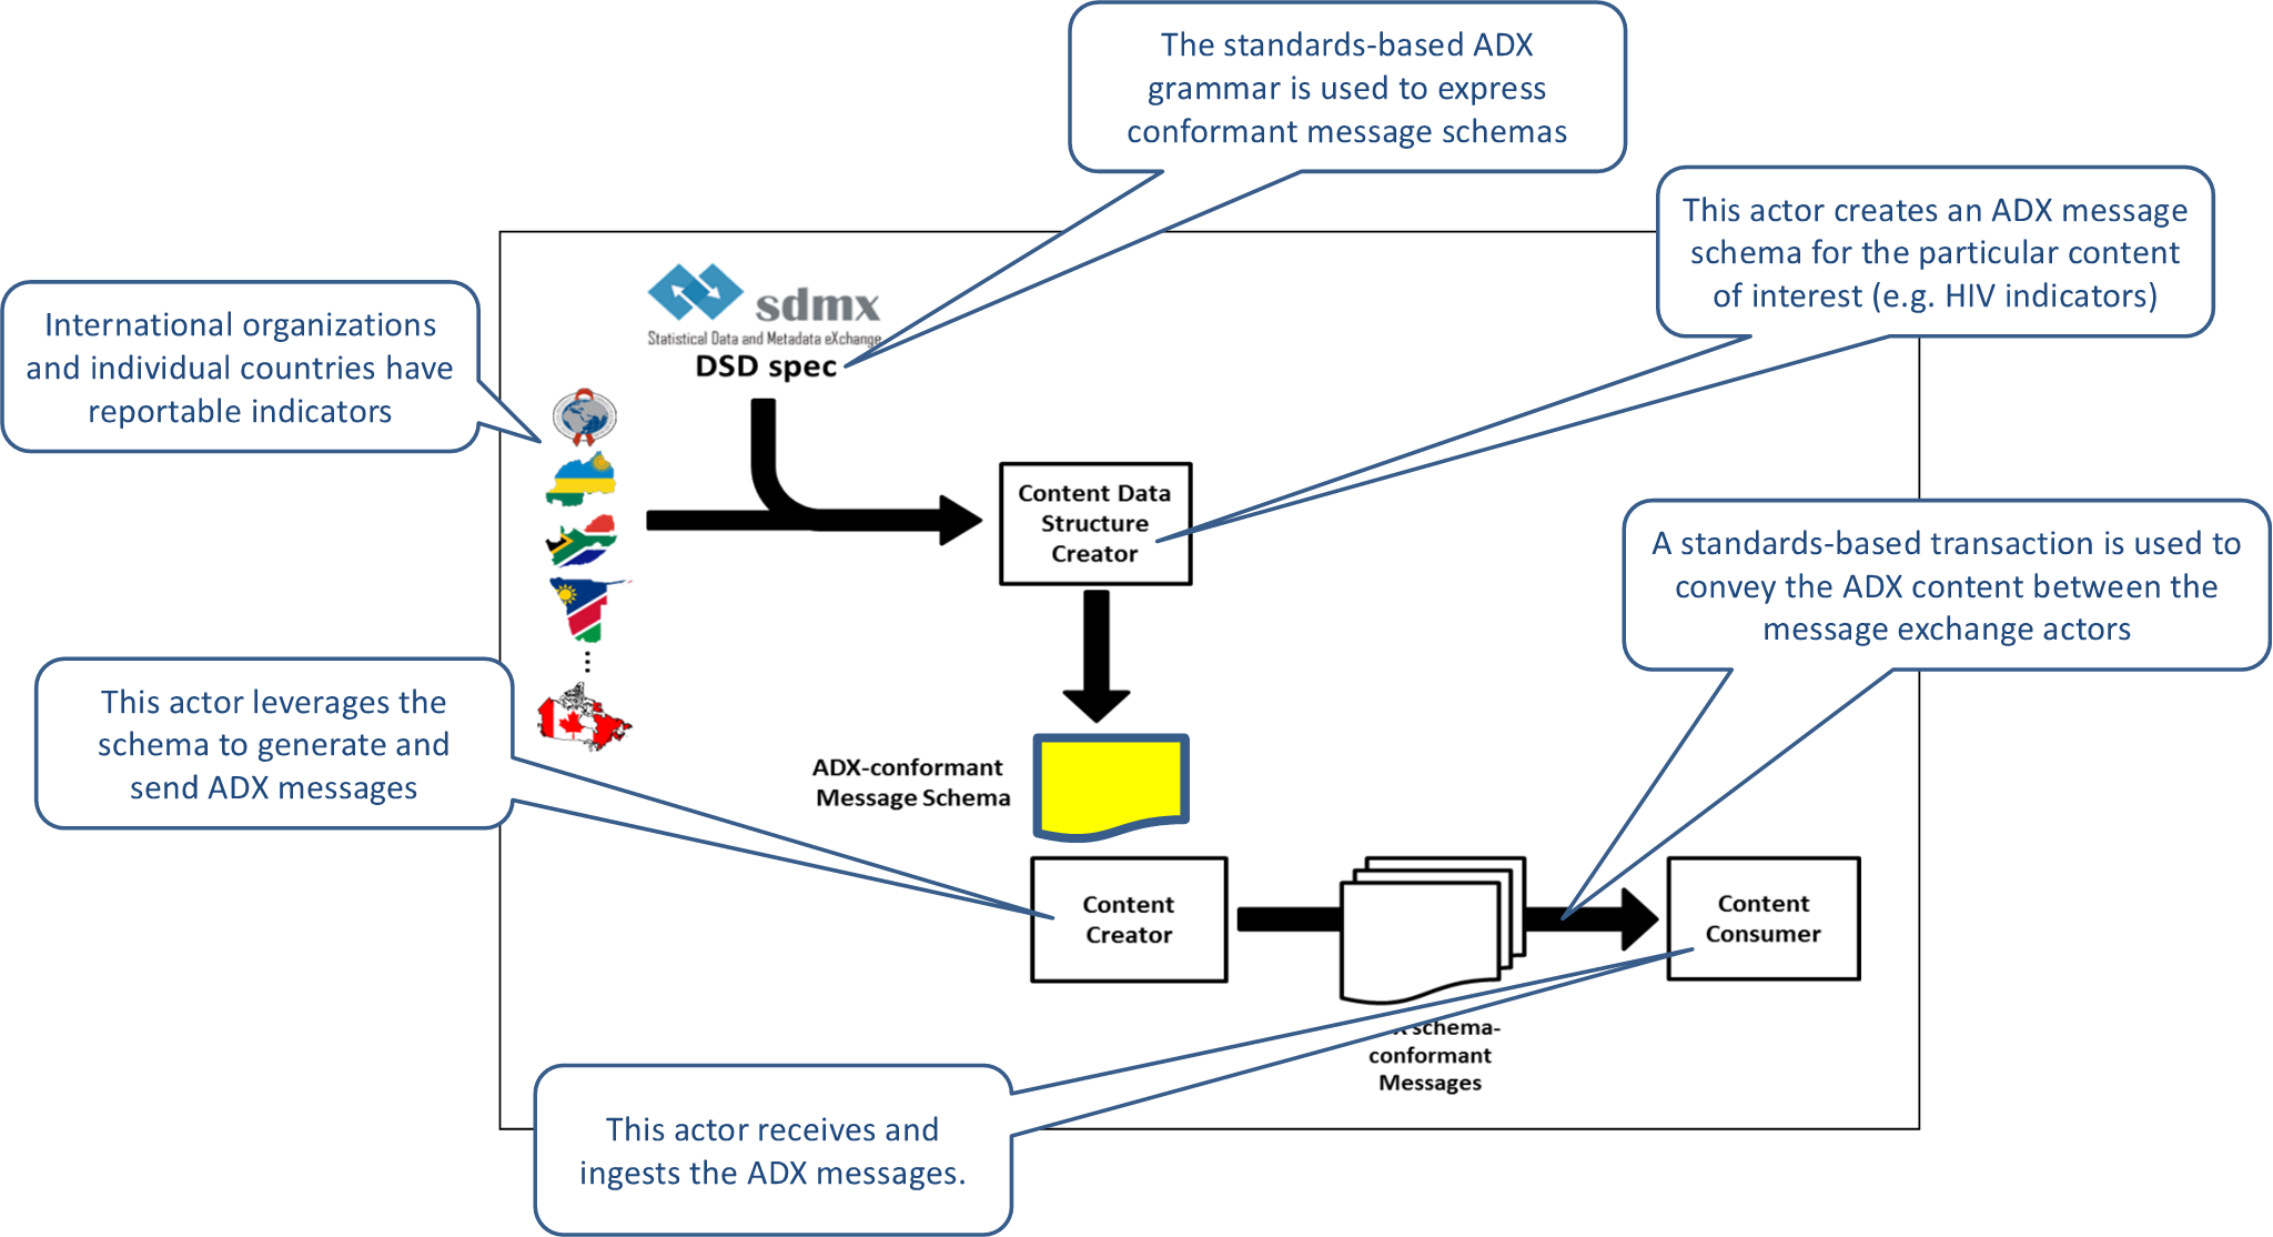
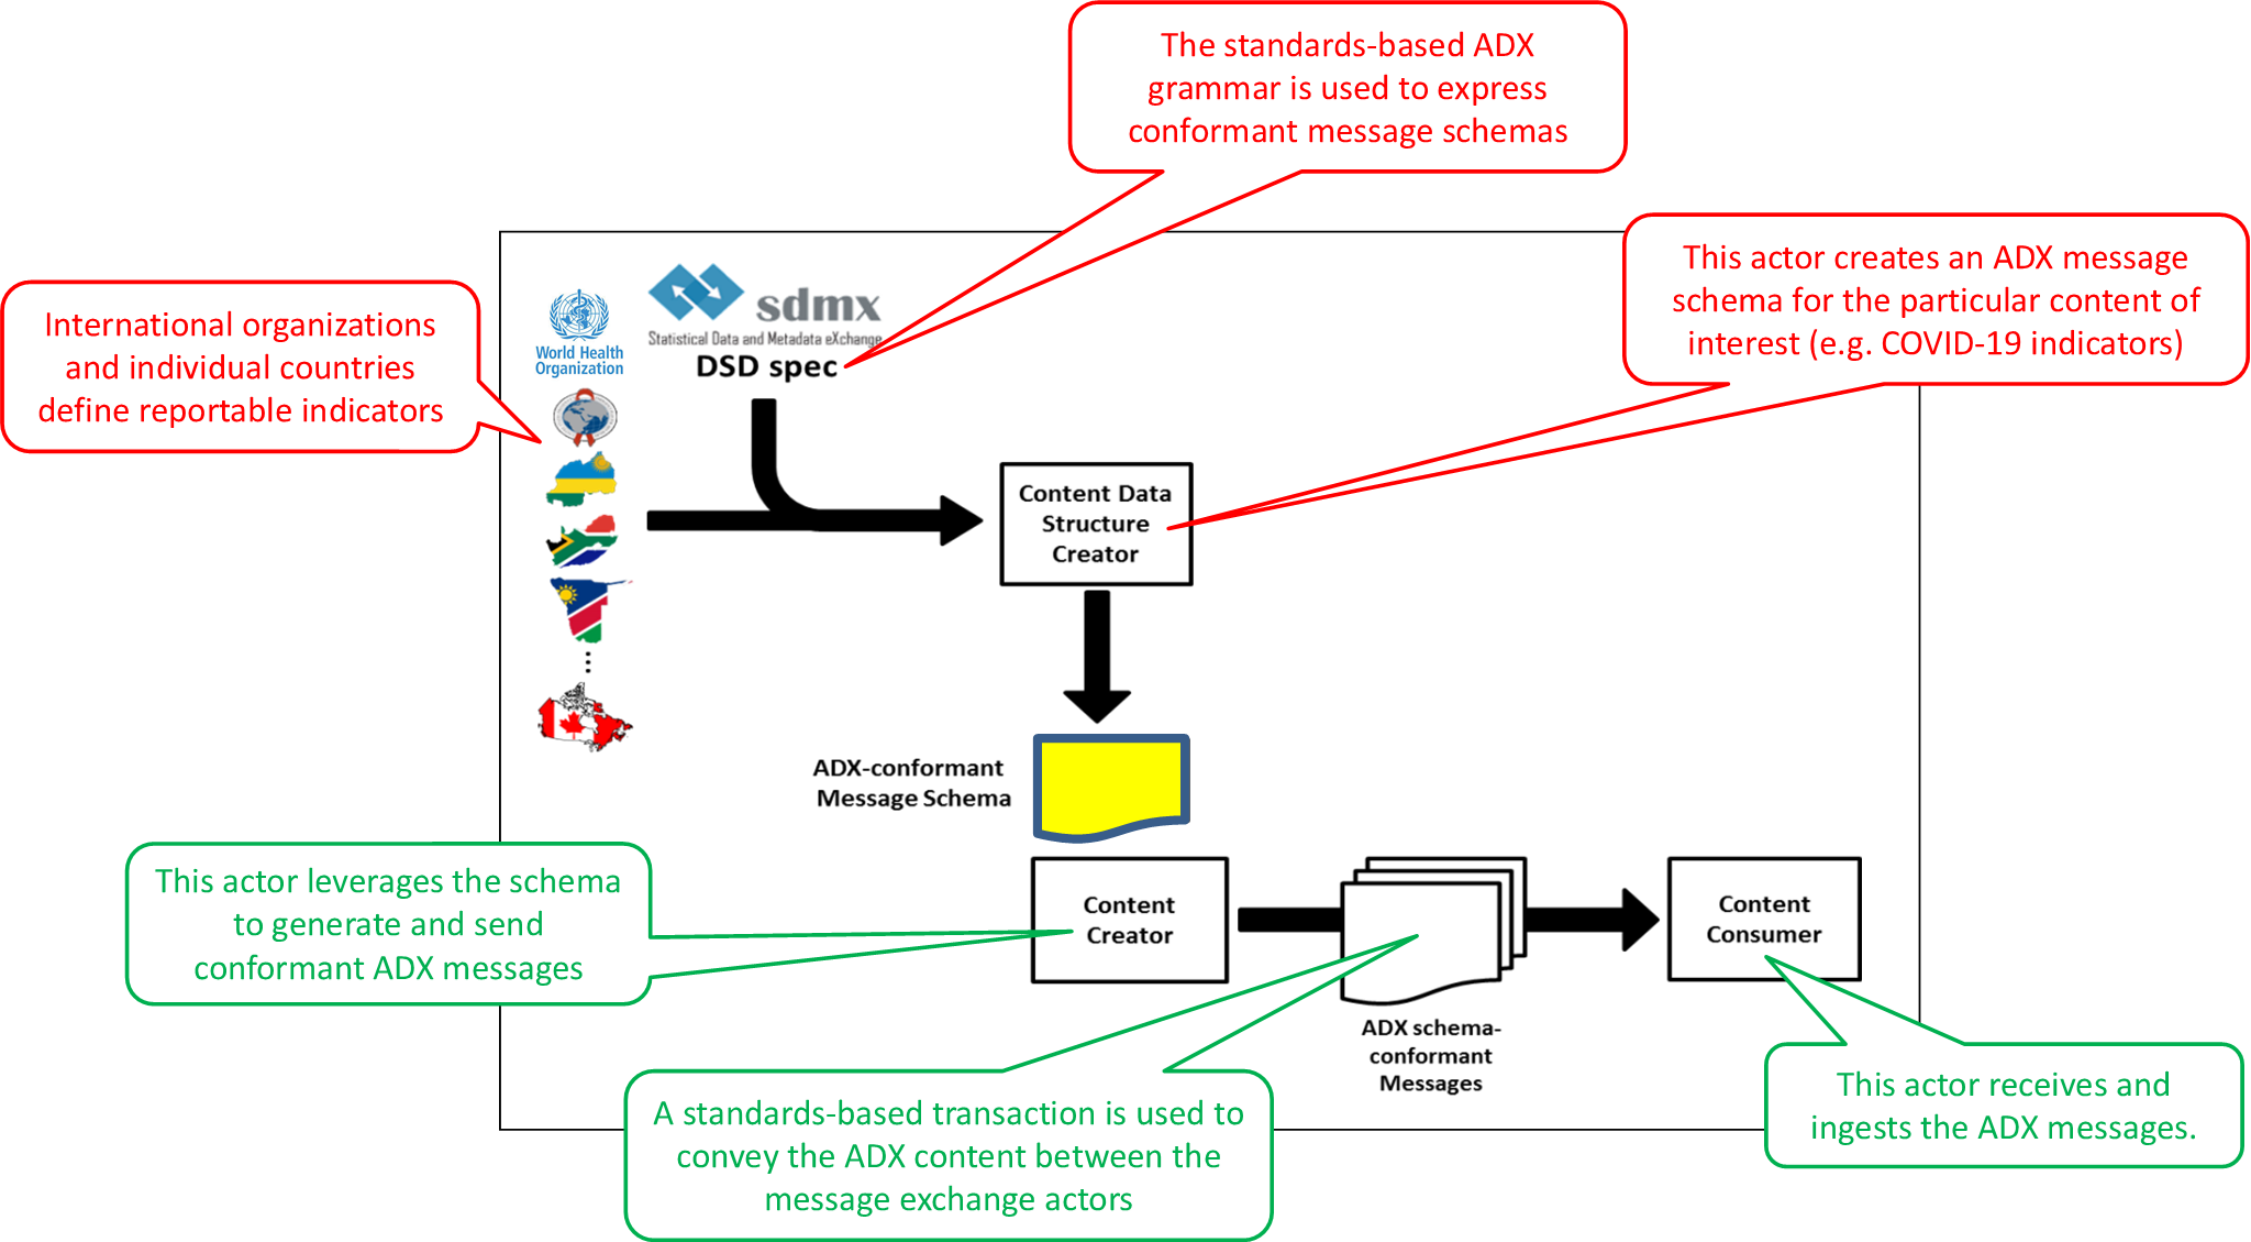
Incorporating Derek's new edits

diff --git a/ADX_COVID.md b/ADX_COVID.md
@@ -3,22 +3,31 @@
 % 2020-06-07
 
 # Overview
-The ADX for COVID profile is a content profile based on the Aggregate Data Exchange (ADX) specification. It defines a message schema for disaggregated data element reports that may be generated by point of service digital health solutions that operationalize the WHO COVID-19 case reporting form. The case reporting form tracks longitudinal person-centric data about COVID-19 cases and represents the underlying content data model for this ADX schema.
+The ADX for COVID profile is a *content* profile based on the Aggregate Data Exchange (ADX) specification. It defines a message schema for disaggregated data element reports that may be generated by point of service digital health solutions that collect weekly aggregate reports or summarize content collected electronically as per the WHO COVID-19 person-centric case reporting form. 
 
 # Concepts
 
-![concepts](images/concepts.png){width=80%}
+![](images/concepts.png){width=80%}
+
 *Figure 1: ADX actors and their roles*
 
-The actors defined in the ADX specification, and their respective roles, are described in Figure 1. The ADX for COVID content specification represents an ADX-conformant Message Schema (highlighted in yellow in the figure). It is a computable representation of the weekly reportable indicators defined by the WHO for COVID case reporting[^1]. This data reporting specification relies on the underlying case report specification, which has also been defined by WHO. For this content profile, WHO is the organization defining the reportable indicators and the QRPH committee is leveraging tooling (acting as a Content Data Structure Creator) to generate the ADX schema[^2]. 
+The actors defined in the ADX specification, and their respective roles, are described in Figure 1. The “design-time” schema development processes are illustrated by the red comments and the “run-time” schema-conformant message exchange workflows are illustrated by the green comments.
+
+Following the “red” workflow in Figure 1, the ADX for COVID content specification (this profile) represents an ADX-conformant Message Schema (highlighted in yellow in the figure). It is a computable representation of the weekly reportable indicators defined by the WHO for COVID surveillance reporting guidelines [^1]. This data reporting specification relies on the underlying case report specification, which has also been defined by WHO. For this content profile, WHO is the organization defining the reportable indicators and the QRPH committee is leveraging tooling (acting as a Content Data Structure Creator) to generate the ADX schema [^2]. 
+
+Following the “green” workflow in Figure 1, a point of service digital health application (playing the role of a Content Creator actor) would leverage this ADX schema to generate conformant COVID-19 aggregate data report messages. These are then submitted to a health information management system (HMIS), which plays the role of a Content Consumer actor.
 
 [^1]: https://www.who.int/emergencies/diseases/novel-coronavirus-2019/technical-guidance/surveillance-and-case-definitions]
 [^2]: In support of this work item, IHE has reached out to SNOMED International for assistance in mapping concepts defined in the WHO case report form. This content specification leverages the SNOMED codes recommended by them.]
 
-A point of service digital health application (playing the role of a Content Creator actor) would leverage this schema to generate conformant COVID-19 aggregate data report messages that are then submitted to a health information management system (HMIS), which plays the role of a Content Consumer actor.
-
 # Use Cases
-A country’s Ministry of Health (MOH) has implemented an electronic case reporting (eCR) form based on the normative WHO COVID-19 case reporting form. On a periodic basis (i.e. weekly), aggregate data reporting messages are generated by the eCR application and submitted to the MOH’s health management information system (HMIS). The MOH is able to leverage the HMIS to inform its actions to fight the COVID-19 pandemic. 
+Three key use cases are supported by this ADX content profile.
+
+1. A country’s Ministry of Health (MOH) has implemented an electronic aggregate data reporting form based on WHO’s normative specification. On a weekly basis, content is captured in the data report form and conformant ADX messages are submitted to the MOH’s health management information system (HMIS). The MOH is able to leverage the HMIS to inform its actions to fight the COVID-19 pandemic. 
+
+2. A country’s Ministry of Health (MOH) has implemented an electronic person-centric case reporting (eCR) form based on WHO’s normative COVID-19 case reporting form. On a weekly basis, aggregate data reports are generated by the eCR application and conformant ADX messages are submitted to the MOH’s health management information system (HMIS). The MOH is able to leverage the HMIS to inform its actions to fight the COVID-19 pandemic. 
+
+3. On a weekly basis, a country MOH leverages its national HMIS to generate an ADX-conformant aggregate data report which it submits to WHO.
 
 # Security Considerations
 Aggregate data reports based on this ADX content specification do not contain identifiable person-centric information. Even so, the aggregate data reports are securely submitted using the QRPH-53 transaction (based on HTTPS). No other security considerations are identified.
